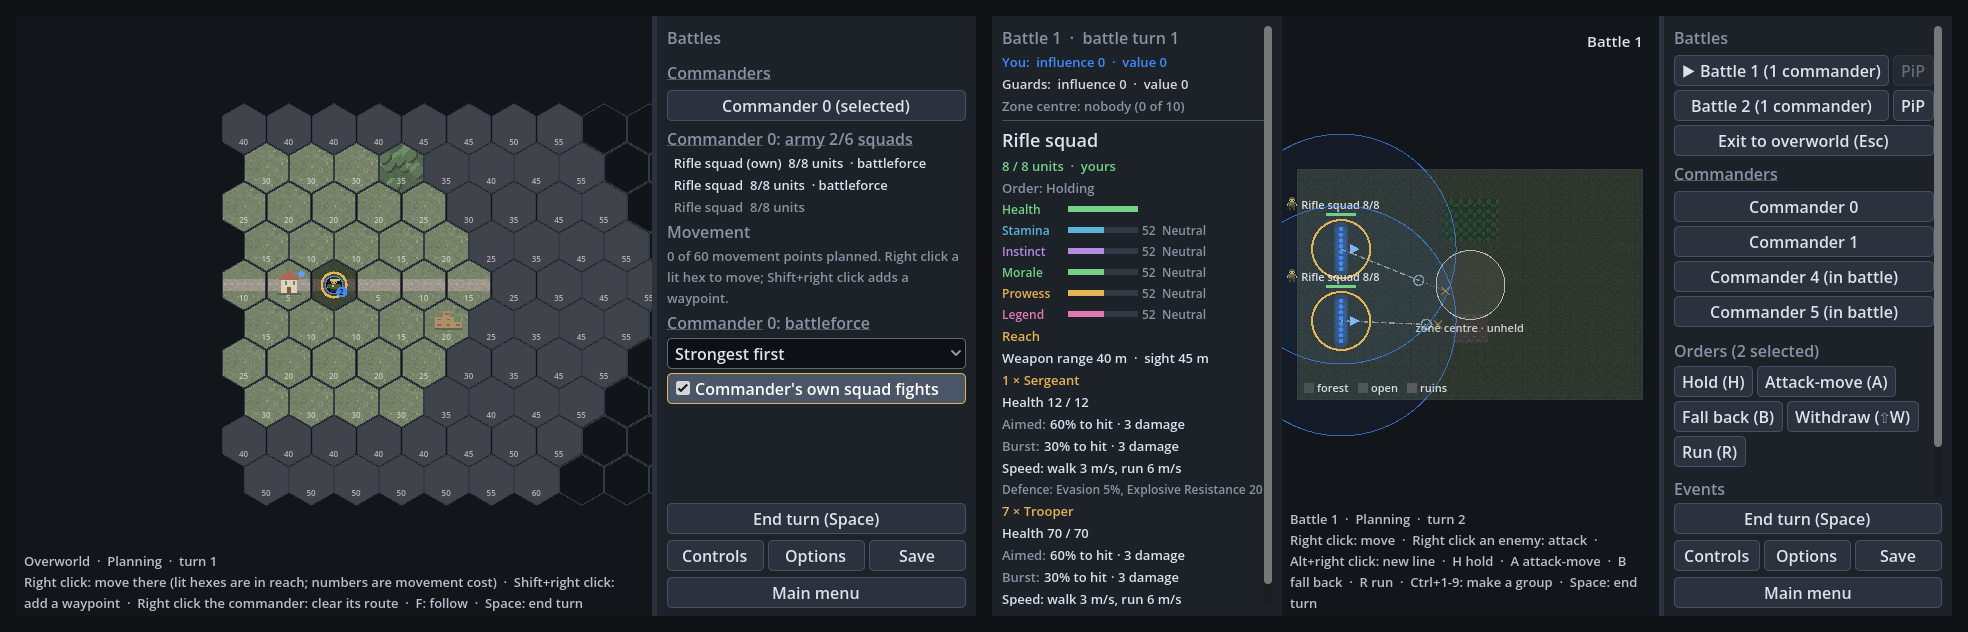
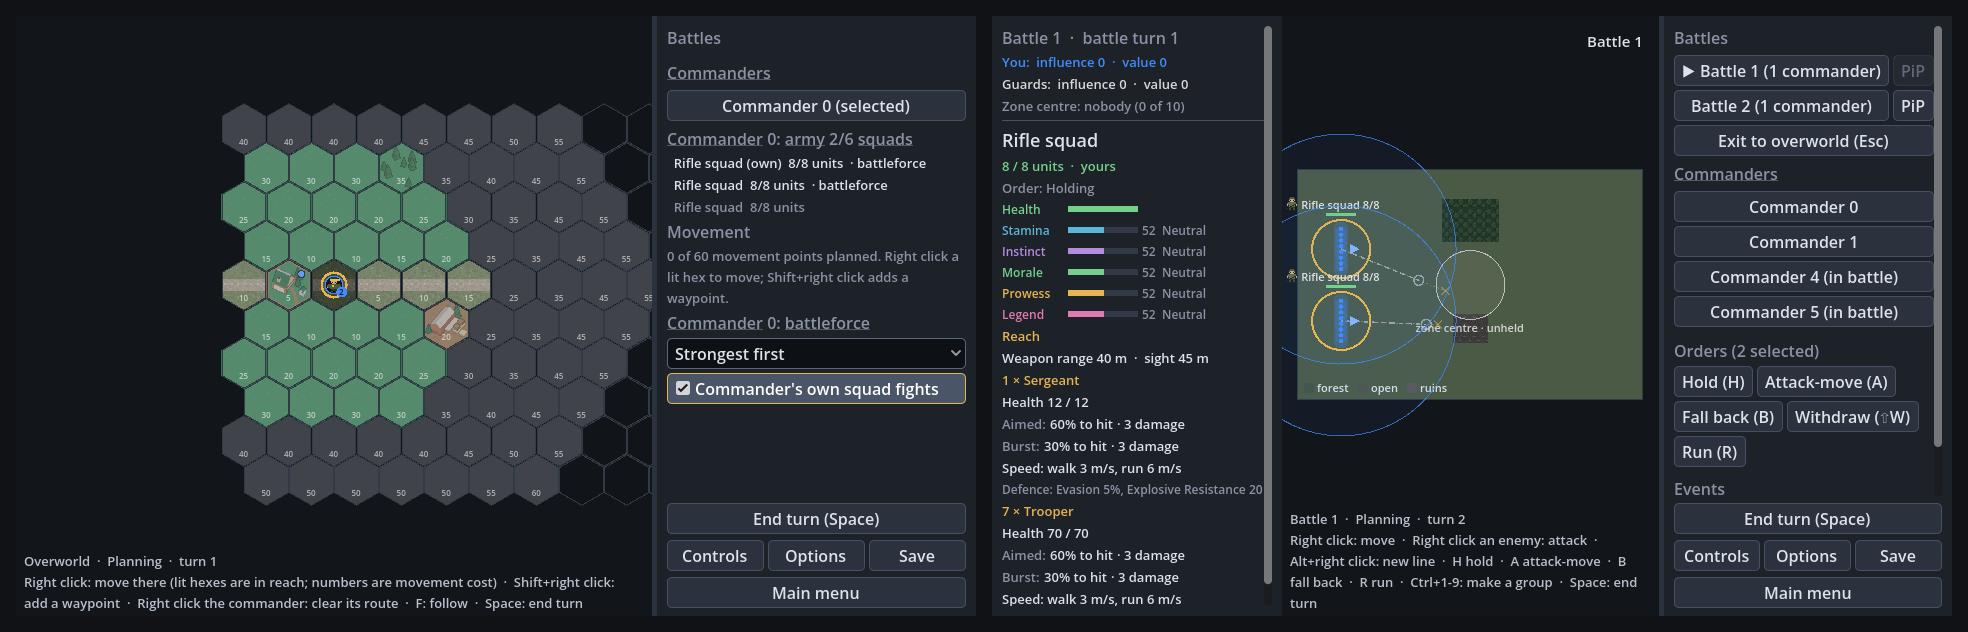
Kenney CC0 art: hex terrain and buildings, battle ground (sw-kys.4)
- Hexagon Pack (CC0): plains, forest, hills, ore deposit hexes and building
  hexes for village, barracks, depot, mine, shrine and bandit camp.
- Tiny Battle (CC0): open ground and water battle textures.
- Imported by src/tools/import_kenney_art.py, colours muted per GDD 01;
  licences copied beside the files and listed in art/CREDITS.md.
- ContextView draws art already cut to a hex (transparent corner) whole over
  the hex instead of clipping it; owner pips show on building hexes too.
- Units, commanders, caches, lake/road hexes keep the placeholders.

Changed region(s): [[0.6509, 0.2706, 0.8369, 0.6313], [0.093, 0.2104, 0.248, 0.6915]]

diff --git a/src/tools/import_kenney_art.py b/src/tools/import_kenney_art.py
@@ -1,0 +1,63 @@
+"""Imports the Kenney CC0 sprites the core package uses (sw-kys.4).
+
+    python src/tools/import_kenney_art.py <hexagon-pack dir> <tiny-battle dir>
+
+The directories are the extracted zips from kenney.nl/assets/hexagon-pack and
+kenney.nl/assets/tiny-battle (both CC0). Copies the chosen hex tiles as they
+are, cuts battle ground textures out of Tiny Battle's packed tilemap (muted,
+per GDD 01: desaturated terrain so squads stand out), and copies each pack's
+License.txt next to them. Writes under data/packages/core/art/kenney/.
+"""
+import os
+import shutil
+import sys
+
+from PIL import Image, ImageEnhance
+
+OUT = os.path.join("data", "packages", "core", "art", "kenney")
+
+# asset file name -> path inside the Hexagon Pack's PNG/Tiles folder
+HEX = {
+    "plains": "Terrain/Grass/grass_05.png",
+    "forest": "Terrain/Grass/grass_12.png",
+    "hills": "Terrain/Grass/grass_14.png",
+    "ore_deposit": "Terrain/Grass/grass_16.png",
+    "village": "Medieval/medieval_house.png",
+    "barracks": "Military/military_entrance.png",
+    "depot": "Mill/mill_storage.png",
+    "mine": "Medieval/medieval_mine.png",
+    "shrine": "Medieval/medieval_church.png",
+    "bandit_camp": "Modern/modern_campsite.png",
+}
+
+# battle ground: Tiny Battle tilemap_packed.png index (18 columns of 16 px)
+# (its road and tree tiles have heavy outlines that tile badly: placeholders stay)
+GROUND = {"open": 0, "water": 37}
+COLUMNS = 18
+
+
+def mute(img, colour=0.45, bright=0.5):
+    img = ImageEnhance.Color(img).enhance(colour)
+    return ImageEnhance.Brightness(img).enhance(bright)
+
+
+def main(hexdir, tbdir):
+    os.makedirs(os.path.join(OUT, "hex"), exist_ok=True)
+    os.makedirs(os.path.join(OUT, "ground"), exist_ok=True)
+    for name, rel in HEX.items():
+        img = Image.open(os.path.join(hexdir, "PNG", "Tiles", rel)).convert("RGBA")
+        mute(img, 0.6, 0.75).save(os.path.join(OUT, "hex", name + ".png"))
+    sheet = Image.open(os.path.join(tbdir, "Tilemap", "tilemap_packed.png")).convert("RGBA")
+
+    def tile(i):
+        x, y = (i % COLUMNS) * 16, (i // COLUMNS) * 16
+        return sheet.crop((x, y, x + 16, y + 16))
+
+    for name, i in GROUND.items():
+        mute(tile(i)).save(os.path.join(OUT, "ground", name + ".png"))
+    shutil.copy(os.path.join(hexdir, "License.txt"), os.path.join(OUT, "hexagon-pack-License.txt"))
+    shutil.copy(os.path.join(tbdir, "License.txt"), os.path.join(OUT, "tiny-battle-License.txt"))
+
+
+if __name__ == "__main__":
+    main(sys.argv[1], sys.argv[2])

diff --git a/data/packages/core/art/CREDITS.md b/data/packages/core/art/CREDITS.md
@@ -8,3 +8,16 @@ id in `manifest.json`.
 
 Third-party art added here must be CC0 (or another licence that allows
 redistribution) and listed below with its source and licence.
+
+## Third-party art
+
+| Files | Source | Licence |
+|---|---|---|
+| `kenney/hex/*.png` (plains, forest, hills, ore deposit, village, barracks, depot, mine, shrine, bandit camp) | Kenney, *Hexagon Pack* 1.0, https://kenney.nl/assets/hexagon-pack | CC0 1.0 (`kenney/hexagon-pack-License.txt`) |
+| `kenney/ground/*.png` (open ground, water) | Kenney, *Tiny Battle* 1.0, https://kenney.nl/assets/tiny-battle | CC0 1.0 (`kenney/tiny-battle-License.txt`) |
+
+Imported by `src/tools/import_kenney_art.py` (picks the tiles, mutes their
+colour per GDD 01's desaturated terrain). Credit is not required by CC0;
+we give it anyway. Lake and road hexes, caches, the angel host, all units
+and commanders, and road/forest/ruins/wall battle ground are still the
+placeholders above.
